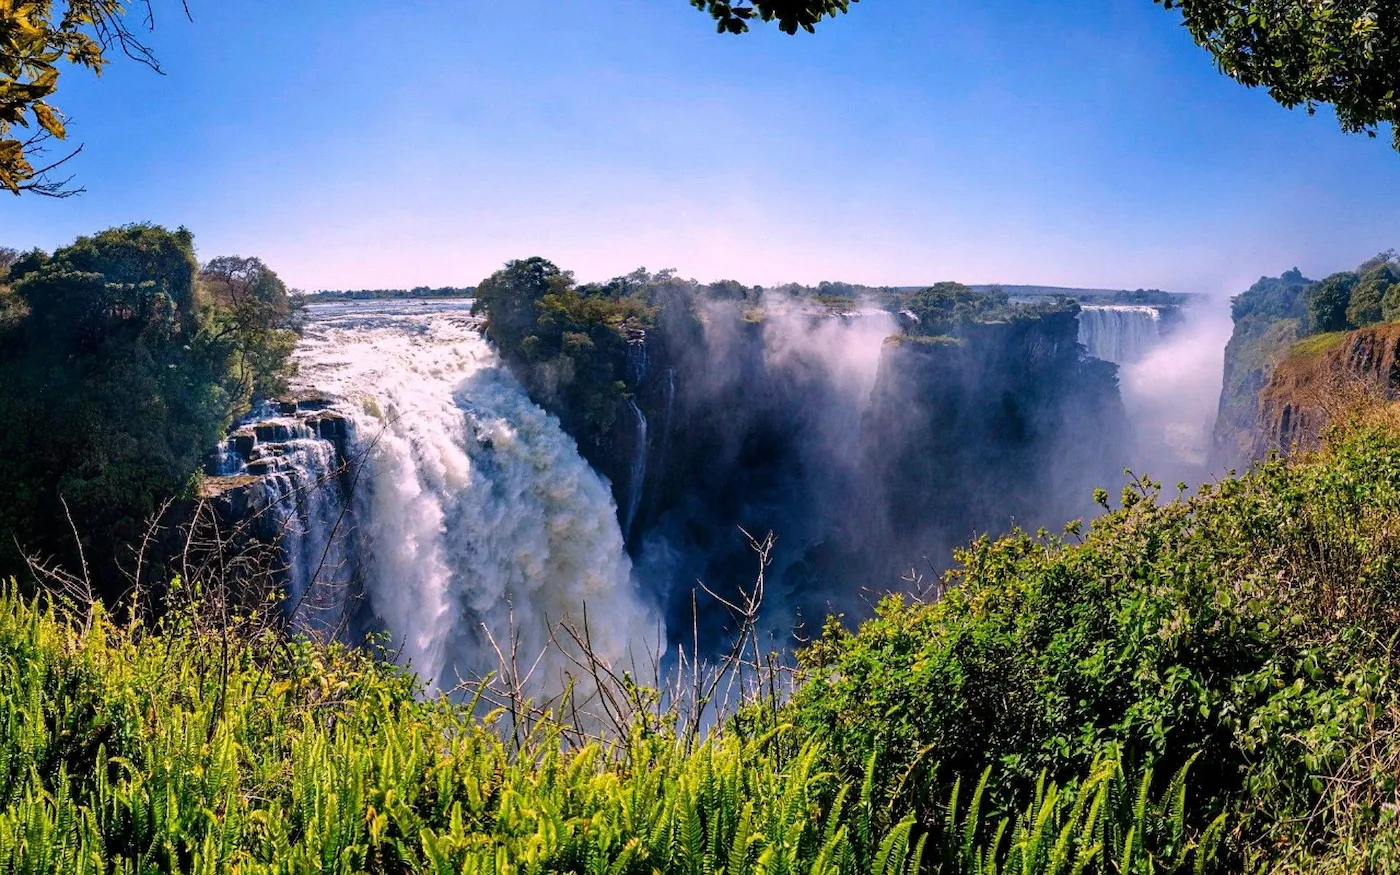
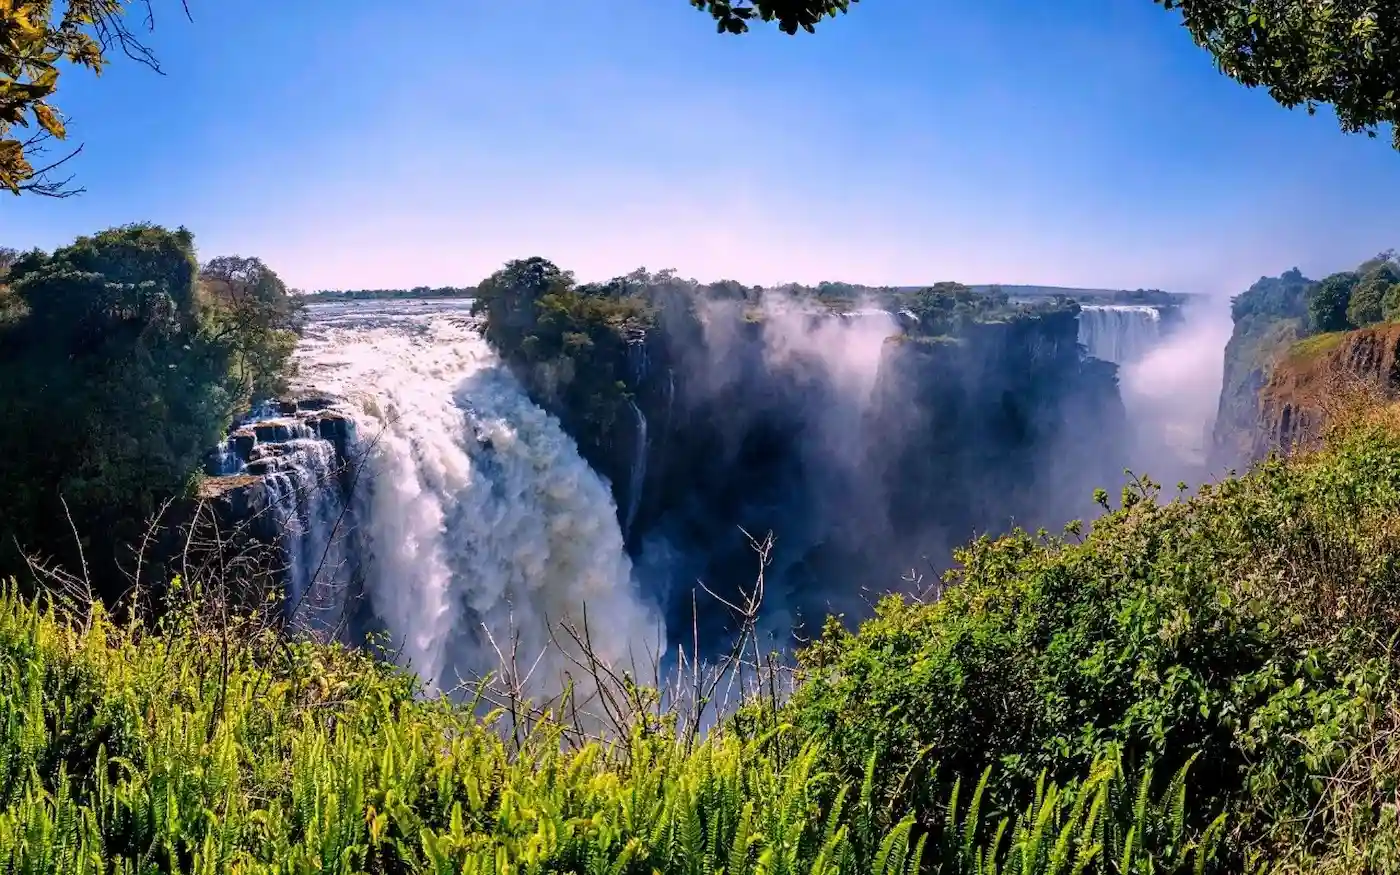
Final Fix

diff --git a/place.html b/place.html
@@ -3,8 +3,11 @@
 <head>
   <meta charset="UTF-8">
   <meta name="viewport" content="width=device-width, initial-scale=1.0">
+  <meta name="author" content="Takudzwa P. Matimura">
+
   <title>Zimbabwe</title>
-  <meta name="description" content="Country page for Zimbabwe">
+  <meta name="description" content="Explore Zimbabwe, a country in southern Africa known for Victoria Falls, diverse wildlife, rich culture, and unique geographic features.">
+
   <link rel="stylesheet" href="styles/place.css">
   <script defer src="scripts/place.js"></script>
 </head>

diff --git a/styles/place.css b/styles/place.css
@@ -4,6 +4,10 @@
   padding: 0;
 }
 
+:root {
+  --primary-color: #1b5e20;
+}
+
 body {
   font-family: Arial, sans-serif;
   text-align: center;
